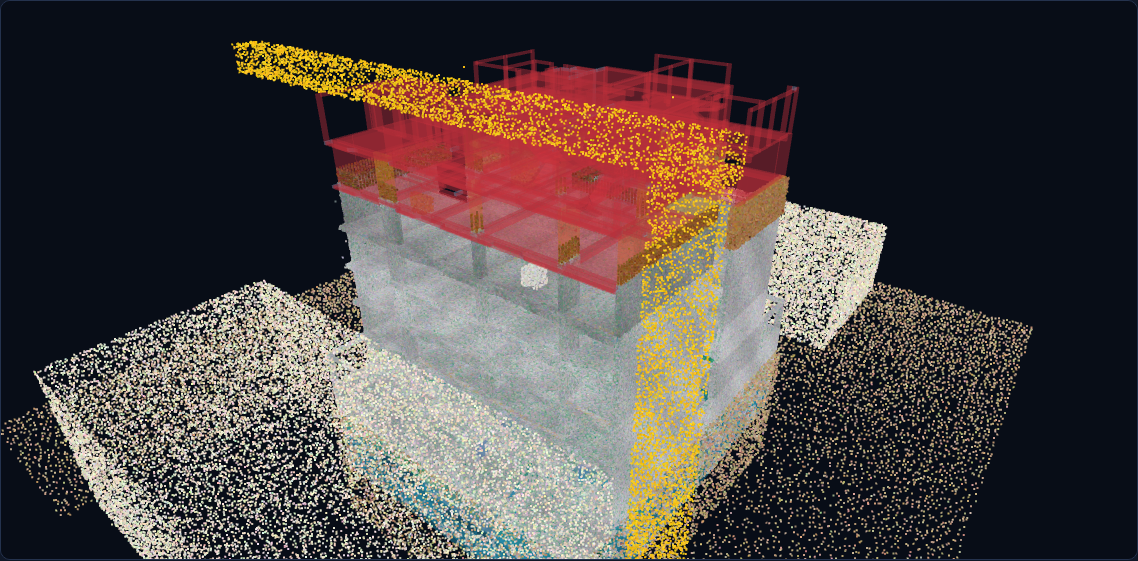
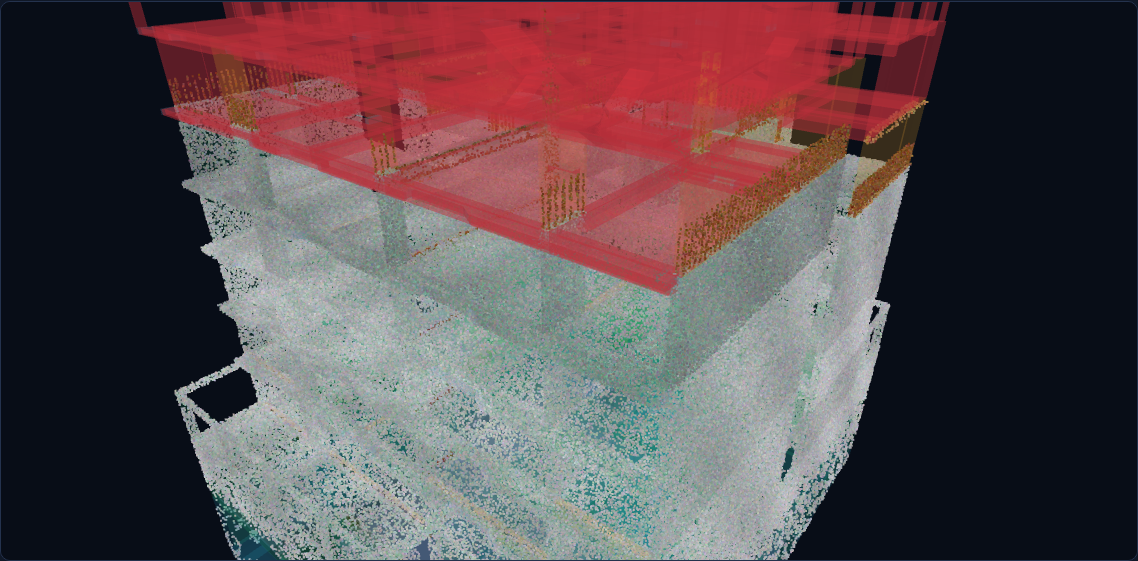
Visor: nube limpia sobre el modelo (entorno oculto por defecto)
- Los puntos que no caen sobre ningún elemento (terreno, grúa, vecinos, andamio) se
  ocultan por defecto; casilla "entorno" para mostrarlos. Cámara centrada en el edificio.
- Elementos construidos casi transparentes para que se vean los puntos; lo no
  construido en rojo, con leyenda explícita.
- Sintético: grúa fuera del edificio y sin pluma, vecinos como medianeras, terreno acotado.

diff --git a/nexo-ia/web/nexo_ia.js b/nexo-ia/web/nexo_ia.js
@@ -351,7 +351,7 @@
   /* ================================================================ VISOR DE LA NUBE (puntos del dron sobre el modelo) */
   const COL_EST = [[0.09, 0.64, 0.29], [0.13, 0.62, 0.72], [0.96, 0.62, 0.04], [0.86, 0.15, 0.15], [0.55, 0.6, 0.7], [0.85, 0.2, 0.85]];
   const NUBE = (() => {
-    let cv, gl, pP, pM, bufs = {}, n = 0, rangos = [], cam = {th: -0.9, ph: 0.5, d: 60, t: [0, 0, 0]}, radio = 30, cfg = {modo: "rgb", malla: true, nube: true, tam: 2, zmax: 1e9}, colEl = {}, zr = [0, 1];
+    let cv, gl, pP, pM, bufs = {}, n = 0, nEdif = 0, rangos = [], cam = {th: -0.9, ph: 0.5, d: 60, t: [0, 0, 0]}, radio = 30, cfg = {modo: "rgb", malla: true, nube: true, entorno: false, tam: 2, zmax: 1e9}, colEl = {}, zr = [0, 1];
     const VS_P = `attribute vec3 p; attribute vec3 c; uniform mat4 mvp; uniform float sz; uniform float zmax; varying vec3 vc;
       void main(){ vc = c; gl_PointSize = sz; gl_Position = p.z > zmax ? vec4(2.0,2.0,2.0,1.0) : mvp * vec4(p,1.0); }`;
     const FS_P = `precision mediump float; varying vec3 vc; void main(){ gl_FragColor = vec4(vc,1.0); }`;
@@ -399,11 +399,18 @@
     }
     function cargarNube(ab) {
       n = new Uint32Array(ab, 0, 1)[0];
-      const xyz = new Float32Array(ab, 4, n * 3), rgb = new Uint8Array(ab, 4 + 12 * n, n * 3), dist = new Uint8Array(ab, 4 + 15 * n, n), cod = new Uint8Array(ab, 4 + 16 * n, n);
+      const xyz0 = new Float32Array(ab, 4, n * 3), rgb0 = new Uint8Array(ab, 4 + 12 * n, n * 3), dist0 = new Uint8Array(ab, 4 + 15 * n, n), cod0 = new Uint8Array(ab, 4 + 16 * n, n);
+      // los puntos que caen sobre el modelo van primero; el entorno (terreno, grúa, vecinos…) al final: así se puede ocultar
+      const orden = new Uint32Array(n); let a = 0, z = n - 1;
+      for (let i = 0; i < n; i++) { if (cod0[i] < 5) orden[a++] = i; else orden[z--] = i; }
+      nEdif = a;
+      const xyz = new Float32Array(n * 3), rgb = new Uint8Array(n * 3), dist = new Uint8Array(n), cod = new Uint8Array(n);
+      for (let k = 0; k < n; k++) { const i = orden[k]; xyz[k * 3] = xyz0[i * 3]; xyz[k * 3 + 1] = xyz0[i * 3 + 1]; xyz[k * 3 + 2] = xyz0[i * 3 + 2];
+        rgb[k * 3] = rgb0[i * 3]; rgb[k * 3 + 1] = rgb0[i * 3 + 1]; rgb[k * 3 + 2] = rgb0[i * 3 + 2]; dist[k] = dist0[i]; cod[k] = cod0[i]; }
       const cd = new Uint8Array(n * 3), ce = new Uint8Array(n * 3);
       const mn = [1e9, 1e9, 1e9], mx = [-1e9, -1e9, -1e9];
       for (let i = 0; i < n; i++) {
-        for (let c = 0; c < 3; c++) { const v = xyz[i * 3 + c]; if (v < mn[c]) mn[c] = v; if (v > mx[c]) mx[c] = v; }
+        if (i < nEdif) for (let c = 0; c < 3; c++) { const v = xyz[i * 3 + c]; if (v < mn[c]) mn[c] = v; if (v > mx[c]) mx[c] = v; }
         const d = dist[i]; let r, g, b;
         if (d === 255) { r = 217; g = 50; b = 217; } else if (d <= 4) { r = 22; g = 163; b = 74; } else if (d <= 10) { const t = (d - 4) / 6; r = 22 + t * 223; g = 163 + t * 15; b = 74 - t * 62; } else { const t = Math.min(1, (d - 10) / 40); r = 245 - t * 25; g = 158 - t * 120; b = 11 + t * 27; }
         cd[i * 3] = r; cd[i * 3 + 1] = g; cd[i * 3 + 2] = b;
@@ -411,7 +418,7 @@
       }
       bufs.p = buf(xyz); bufs.rgb = buf(rgb); bufs.dist = buf(cd); bufs.est = buf(ce);
       cam.t = mn.map((a, i) => (a + mx[i]) / 2); radio = Math.hypot(mx[0] - mn[0], mx[1] - mn[1], mx[2] - mn[2]) / 2; cam.d = radio * 1.9; zr = [mn[2], mx[2]];
-      return {n, zmin: mn[2], zmax: mx[2]};
+      return {n, nEdif, zmin: mn[2], zmax: mx[2]};
     }
     function colores(dron) { colEl = {}; (dron.elementos || []).forEach(f => colEl[f.id] = COL_EST[ESTADOS_ORDEN.indexOf(f.estado)] || COL_EST[4]); }
     function dibujar() {
@@ -425,7 +432,7 @@
         const aP = gl.getAttribLocation(pP, "p"), aC = gl.getAttribLocation(pP, "c");
         gl.bindBuffer(gl.ARRAY_BUFFER, bufs.p); gl.enableVertexAttribArray(aP); gl.vertexAttribPointer(aP, 3, gl.FLOAT, false, 0, 0);
         gl.bindBuffer(gl.ARRAY_BUFFER, bufs[cfg.modo]); gl.enableVertexAttribArray(aC); gl.vertexAttribPointer(aC, 3, gl.UNSIGNED_BYTE, true, 0, 0);
-        gl.drawArrays(gl.POINTS, 0, n); gl.disableVertexAttribArray(aC);
+        gl.drawArrays(gl.POINTS, 0, cfg.entorno ? n : nEdif); gl.disableVertexAttribArray(aC);
       }
       if (cfg.malla && rangos.length) {
         gl.useProgram(pM); gl.uniformMatrix4fv(gl.getUniformLocation(pM, "mvp"), false, mvp); gl.uniform1f(gl.getUniformLocation(pM, "zmax"), cfg.zmax);
@@ -434,8 +441,9 @@
         gl.bindBuffer(gl.ARRAY_BUFFER, bufs.mP); gl.enableVertexAttribArray(aP); gl.vertexAttribPointer(aP, 3, gl.FLOAT, false, 0, 0);
         gl.bindBuffer(gl.ARRAY_BUFFER, bufs.mN); gl.enableVertexAttribArray(aN); gl.vertexAttribPointer(aN, 3, gl.FLOAT, false, 0, 0);
         gl.enable(gl.BLEND); gl.blendFunc(gl.SRC_ALPHA, gl.ONE_MINUS_SRC_ALPHA); gl.depthMask(!cfg.nube || !n);
-        const alfa = cfg.nube && n ? 0.28 : 0.9, uc = gl.getUniformLocation(pM, "col");
-        rangos.forEach(r => { const c = colEl[r.id] || COL_EST[4]; gl.uniform4f(uc, c[0], c[1], c[2], alfa); gl.drawArrays(gl.TRIANGLES, r.ini, r.n); });
+        const conPts = cfg.nube && n, uc = gl.getUniformLocation(pM, "col");
+        rangos.forEach(r => { const c = colEl[r.id] || COL_EST[4], hecho = c === COL_EST[0] || c === COL_EST[1];
+          gl.uniform4f(uc, c[0], c[1], c[2], conPts ? (hecho ? 0.10 : c === COL_EST[3] ? 0.30 : 0.14) : 0.9); gl.drawArrays(gl.TRIANGLES, r.ini, r.n); });
         gl.disableVertexAttribArray(aN); gl.depthMask(true);
       }
     }
@@ -456,6 +464,7 @@
         <div class="seg" id="iaNubeModo"><button class="on" data-m="rgb">Color real</button><button data-m="dist">Distancia al modelo</button><button data-m="est">Estado del elemento</button></div>
         <label class="nota" style="margin:0"><input type="checkbox" id="iaNubeMalla" checked> modelo BIM</label>
         <label class="nota" style="margin:0"><input type="checkbox" id="iaNubePts" checked> nube</label>
+        <label class="nota" style="margin:0" title="Puntos que no caen sobre ningún elemento del modelo: terreno, excavación, grúa, andamio, vecinos, material"><input type="checkbox" id="iaNubeEnt"> entorno (terreno, grúa, vecinos)</label>
         <label class="nota" style="margin:0">tamaño <input type="range" id="iaNubeTam" min="1" max="6" step="0.5" value="2" style="width:70px"></label>
         <label class="nota" style="margin:0">cortar en altura <input type="range" id="iaNubeZ" min="0" max="1000" value="1000" style="width:120px"> <span id="iaNubeZt"></span></label>
         <span style="flex:1"></span><a class="btn sm" href="/api/ia/escaneo/nube.ply" download>Descargar nube alineada (.ply)</a>${/^sintética/.test(IA.dron.nombre) ? '<a class="btn sm" href="/api/ia/escaneo/simulada.ply" download title="Tal cual saldría de WebODM: sin alinear y, si viene del IFC, en coordenadas UTM">Descargar nube simulada (.ply)</a>' : ""}</div>
@@ -471,11 +480,13 @@
       NUBE.colores(IA.dron); lienzo.querySelector(".vacio")?.remove();
       $q("#iaNubeZt").textContent = "todo";
       const ley = () => { $q("#iaNubeLey").innerHTML = LEY[NUBE.cfg.modo === "rgb" ? "rgb" : NUBE.cfg.modo].map(([t, c]) => `<span><i style="display:inline-block;width:10px;height:10px;border-radius:2px;margin-right:5px;background:${c}"></i>${t}</span>`).join("") +
-        `<span class="nota">${num(info.n, 0)} puntos mostrados${IA.dron.vista ? ` · ${num(IA.dron.vista.fuera_del_modelo_pct, 1)} % fuera del modelo (grúa, andamio, terreno, vecinos…)` : ""}</span>`; };
+        `<span class="nota">${num(NUBE.cfg.entorno ? info.n : info.nEdif, 0)} puntos mostrados${NUBE.cfg.entorno ? "" : ` (sobre el modelo; ${num(info.n - info.nEdif, 0)} de entorno ocultos)`}</span>` +
+        `<span class="nota">Modelo: <b style="color:#DC2626">rojo = aún no construido</b> (por eso ahí no hay puntos) · verde = construido · gris = el dron no lo ve</span>`; };
       ley();
       caja.querySelectorAll("#iaNubeModo button").forEach(b => b.onclick = () => { caja.querySelectorAll("#iaNubeModo button").forEach(x => x.classList.toggle("on", x === b)); NUBE.cfg.modo = b.dataset.m; ley(); NUBE.dibujar(); });
       $q("#iaNubeMalla").onchange = ev => { NUBE.cfg.malla = ev.target.checked; NUBE.dibujar(); };
       $q("#iaNubePts").onchange = ev => { NUBE.cfg.nube = ev.target.checked; NUBE.dibujar(); };
+      $q("#iaNubeEnt").onchange = ev => { NUBE.cfg.entorno = ev.target.checked; ley(); NUBE.dibujar(); };
       $q("#iaNubeTam").oninput = ev => { NUBE.cfg.tam = +ev.target.value; NUBE.dibujar(); };
       $q("#iaNubeZ").oninput = ev => { const [a, b] = NUBE.zr(), v = +ev.target.value; NUBE.cfg.zmax = v >= 1000 ? 1e9 : a + (b - a) * v / 1000;
         $q("#iaNubeZt").textContent = v >= 1000 ? "todo" : `z ≤ ${num(NUBE.cfg.zmax, 1)} m`; NUBE.dibujar(); };

diff --git a/nexo-ia/nexo_ia/sintetico.py b/nexo-ia/nexo_ia/sintetico.py
@@ -130,9 +130,8 @@ def generar(fecha_corte, semilla=7, retrasados=0.08, ventana_dias=45, falsos_reg
     losas = [tri[i][..., 2].max() for i in construidos if E[i]["grupo"] in ("ALI", "LMA")]
     piso = max(losas) if losas else z_suelo                          # la losa construida más alta: ahí se acopia material
     if objetos_ajenos:
-        agregar(_caja((bmax[0] + 7, bmin[1] - 5, z_suelo + 12), (1.4, 1.4, 24), rng, espaciado * 2), -2, (0.95, 0.76, 0.10))    # torre grúa
-        agregar(_caja((bmax[0] + 7 - 9, bmin[1] - 5, z_suelo + 24), (20, 1.0, 1.0), rng, espaciado * 2), -2, (0.95, 0.76, 0.10))  # pluma
-        agregar(_caja((bmin[0] - 1.6, (bmin[1] + bmax[1]) / 2, z_suelo + 3), (0.8, 10, 6), rng, espaciado * 2), -2, (0.20, 0.38, 0.72))  # andamio
+        agregar(_caja((bmax[0] + 9, bmin[1] - 7, z_suelo + 10), (1.2, 1.2, 20), rng, espaciado * 2), -2, (0.95, 0.76, 0.10))    # torre grúa (afuera)
+        agregar(_caja((bmin[0] - 1.2, (bmin[1] + bmax[1]) / 2, z_suelo + 2), (0.6, 6, 4), rng, espaciado * 2), -2, (0.20, 0.38, 0.72))  # andamio
         for k in range(3):                                                                                       # material sobre la losa
             tono = [(0.66, 0.30, 0.20), (0.82, 0.81, 0.78), (0.60, 0.44, 0.27)][k]                              # ladrillo, cemento, madera
             agregar(_caja((rng.uniform(bmin[0] + 2, bmax[0] - 2), rng.uniform(bmin[1] + 2, bmax[1] - 2), piso + 0.5),
@@ -153,19 +152,18 @@ def generar(fecha_corte, semilla=7, retrasados=0.08, ventana_dias=45, falsos_reg
             barras = [(x, y) for x in xs for y in ys if x in (xs[0], xs[-1]) or y in (ys[0], ys[-1])]
             zz = np.arange(mx[2], mx[2] + 0.9, 0.025)
             agregar(np.array([(x + rng.normal(0, 0.005), y + rng.normal(0, 0.005), z) for x, y in barras for z in zz]), -2, (0.45, 0.26, 0.16), 0.04)
-        # vecinos (medianeras de sillar) a ambos lados
-        for lado, alto in ((-1, 9.0), (1, 6.0)):
-            yc = (bmin[1] - 7.5) if lado < 0 else (bmax[1] + 7.5)
-            agregar(_caja(((bmin[0] + bmax[0]) / 2, yc, z_suelo + alto / 2), (bmax[0] - bmin[0] + 6, 12, alto), rng, espaciado * 3), -3, (0.88, 0.85, 0.77), 0.05)
+        # medianeras de sillar de los vecinos (solo el muro que da a la obra, no el edificio entero)
+        for lado, alto in ((-1, 7.0), (1, 5.0)):
+            yc = (bmin[1] - 2.0) if lado < 0 else (bmax[1] + 2.0)
+            agregar(_caja(((bmin[0] + bmax[0]) / 2, yc, z_suelo + alto / 2), (bmax[0] - bmin[0] + 4, 0.3, alto), rng, espaciado * 2), -3, (0.88, 0.85, 0.77), 0.05)
     # terreno (fuera de la excavación) + excavación: cortes de suelo y fondo
-    gx = np.arange(bmin[0] - 15, bmax[0] + 15, espaciado * 4)
-    gy = np.arange(bmin[1] - 15, bmax[1] + 15, espaciado * 4)
+    gx = np.arange(bmin[0] - 8, bmax[0] + 8, espaciado * 4)
+    gy = np.arange(bmin[1] - 8, bmax[1] + 8, espaciado * 4)
     G = np.stack(np.meshgrid(gx, gy), -1).reshape(-1, 2)
     G = G + rng.uniform(-espaciado * 2, espaciado * 2, G.shape)                  # sin patrón de grilla
     m = 0.3
     fuera = (G[:, 0] < bmin[0] - m) | (G[:, 0] > bmax[0] + m) | (G[:, 1] < bmin[1] - m) | (G[:, 1] > bmax[1] + m)
-    vecino = (G[:, 1] < bmin[1] - 1.5) | (G[:, 1] > bmax[1] + 1.5)
-    G = G[fuera & ~(vecino & (np.abs(G[:, 0] - (bmin[0] + bmax[0]) / 2) < (bmax[0] - bmin[0]) / 2 + 3))]
+    G = G[fuera]
     agregar(np.c_[G, rng.normal(z_suelo, 0.03, len(G))], -1, (0.74, 0.64, 0.50), 0.04)
     fondo = np.stack(np.meshgrid(np.arange(bmin[0] - m, bmax[0] + m, espaciado * 3), np.arange(bmin[1] - m, bmax[1] + m, espaciado * 3)), -1).reshape(-1, 2)
     fondo = fondo + rng.uniform(-espaciado * 1.5, espaciado * 1.5, fondo.shape)

diff --git a/nexo-ia/README.md b/nexo-ia/README.md
@@ -102,7 +102,7 @@ NEXO_LLM=anthropic ANTHROPIC_API_KEY=… python3 servidor.py
 **Visor de la nube** (botón «Ver la nube de puntos en 3D»): los puntos alineados sobre el modelo, que se colorea por el
 estado decidido. Tres modos de color: *color real* de las fotos, *distancia al modelo* (verde ≤ 4 cm, ámbar 4–10 cm,
 rojo > 10 cm, magenta = fuera del modelo: grúa, terreno, vecinos) y *estado del elemento*. Corte por altura para ver
-dentro. «Descargar nube alineada (.ply)» la abre en CloudCompare, ReCap o Revit.
+dentro. Por defecto se ocultan los puntos de entorno (terreno, grúa, vecinos: lo que no cae sobre ningún elemento); la casilla «entorno» los muestra. «Descargar nube alineada (.ply)» la abre en CloudCompare, ReCap o Revit.
 
 Panel → **Parte diario → «Avance por dron»**. Entra la nube de puntos del vuelo (WebODM `.laz/.ply`, ReCap `.pts`) y sale
 el estado de **cada elemento del modelo** + la propuesta de metrado, en el mismo formato que el parte diario asistido.
